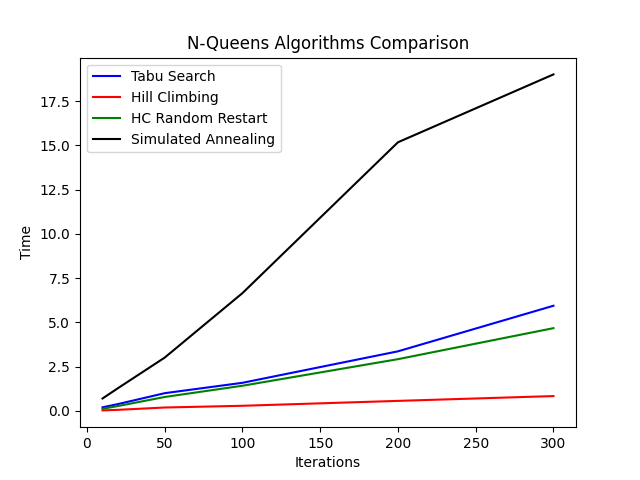
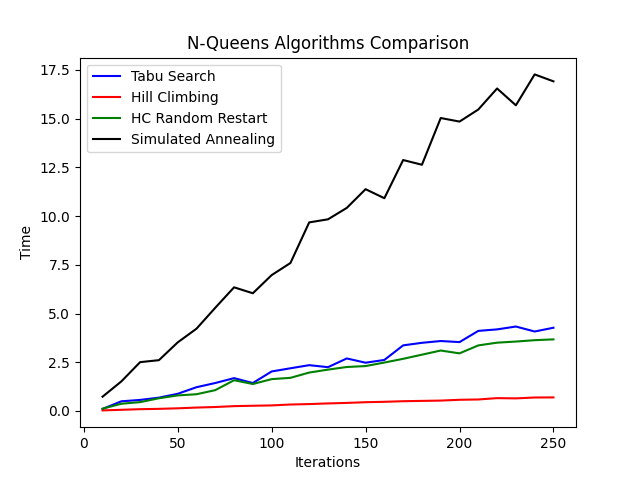
added stats and graphs

diff --git a/stats_and_plots.py b/stats_and_plots.py
@@ -16,9 +16,9 @@ def generate_graphs(algorithms, algorithm_names):
 
     generate_time_and_iterations_num_graph(algo_and_colors_zip, algo_and_names_zip, algorithm_names)
 
-    generate_time_and_board_size_graph(algo_and_colors_zip, algo_and_names_zip, algorithm_names, )
-    generate_accuracy_and_board_size_graph(algo_and_colors_zip, algo_and_names_zip, algorithm_names)
-    generate_avg_accuracy_historgram(algo_and_names_zip, algorithm_names, colors)
+    # generate_time_and_board_size_graph(algo_and_colors_zip, algo_and_names_zip, algorithm_names, )
+    # generate_accuracy_and_board_size_graph(algo_and_colors_zip, algo_and_names_zip, algorithm_names)
+    # generate_avg_accuracy_historgram(algo_and_names_zip, algorithm_names, colors)
 
 
 def generate_avg_accuracy_historgram(algo_and_names_zip, algorithm_names, colors, ):
@@ -81,7 +81,7 @@ def generate_time_and_board_size_graph(algo_and_colors_zip, algo_and_names_zip, 
 
 def generate_time_and_iterations_num_graph(algo_and_colors_zip, algo_and_names_zip, algorithm_names,
                                            ):
-    iterations_numbers = [10, 20, 50, 100, 200, 300]
+    iterations_numbers = [10 * i for i in range(1, 26)]
     times_dic_by_alg = {algorithm_name: [] for algorithm_name in algorithm_names}
     for iterations_num in iterations_numbers:
         problem = NQueensSearch(DEFAULT_BOARD_SIZE)

diff --git a/n_queens.py b/n_queens.py
@@ -29,11 +29,14 @@ class NQueensSearch(SearchProblem):
         self.N = N
 
     def initial_state(self):
+        # generate list of n numbers from 0 to n, each cell index represents the number of row, and each value list[i]
+        # represents the column of a queen
         return list(randrange(self.N) for _ in range(self.N))
 
     def is_goal_state(self, state):
         a, b, c = (set() for i in range(3))
         for row, col in enumerate(state):
+            # On any conflict row, col or diag - return that this is not the goal state
             if col in a or row - col in b or row + col in c:
                 return False
             a.add(col)

diff --git a/main.py b/main.py
@@ -69,5 +69,5 @@ if __name__ == "__main__":
     algorithms = [tabu_search, hill_climbing, random_restart, simulated_annealing]
     names = ["Tabu Search", "Hill Climbing", "HC Random Restart", "Simulated Annealing"]
 
-    # generate_graphs(algorithms, names)
-    run_algorithms_and_show_boards(n, args.i, args.all)
+    generate_graphs(algorithms, names)
+    # run_algorithms_and_show_boards(n, args.i, args.all)
